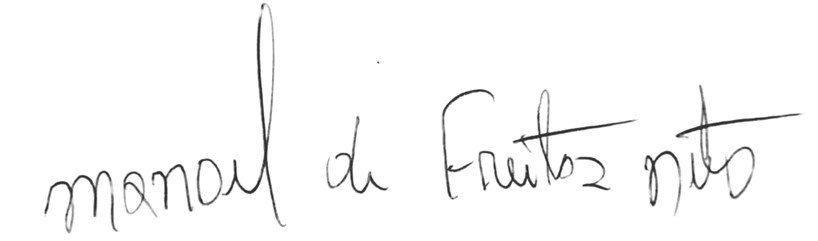
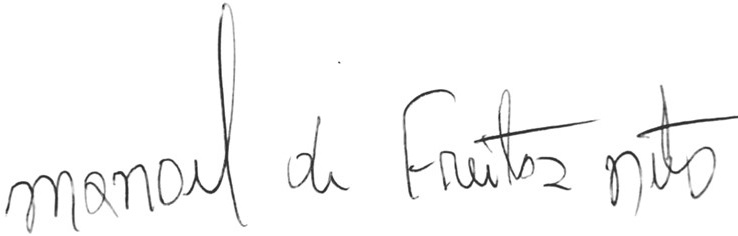
Atualização imagem assinatura neto

Changed region(s): [[0.5298, 0.3559, 1.0, 0.8898], [0.0, 0.0, 0.374, 0.9788], [0.374, 0.5042, 0.4986, 0.8305]]

diff --git a/src/pages/admcontrato/index.tsx b/src/pages/admcontrato/index.tsx
@@ -97,7 +97,8 @@ export default function AdmContrato() {
 
 
     return (
-        <>
+        
+            <div className={`flex flex-col w-full mr-2  justify-center`}>
 
             {loading && <Modal size={'sm'} popup show={loading}>
                 <Modal.Body>
@@ -109,17 +110,12 @@ export default function AdmContrato() {
                 </Modal.Body>
             </Modal>
             }
-            <Head>
-                <title>Administrar Contrato</title>
-
-            </Head>
-            <div className={`flex flex-col w-full mr-2  justify-center`}>
                 {modal.busca && (<ModalBusca visible={modal.busca} setVisible={() => setModal({ busca: false })} />)}
                 {modal.cadastro && (<ModalCadastro onClose={() => setModal({ cadastro: false })} isOpen={modal.cadastro} />)}
 
 
-                <div className="flex  flex-col px-4  ">
-                    <div className="flex  flex-row justify-start gap-2 items-center w-full mt-2 pb-1">
+              
+                    <div className="flex  flex-row justify-start gap-2 items-center w-full mt-2 px-2 pb-1">
                         <Button variant={'outline'} size={'sm'} onClick={() => setModal({ busca: true })} type="button" >
                             <IoMdSearch size={18} />
                             Buscar Cliente
@@ -130,10 +126,10 @@ export default function AdmContrato() {
                         </Button>
 
                     </div>
-                    <div className="flex-col w-full   rounded-lg   border-gray-700">
-                        <Tabs theme={{ base: 'bg-white rounded-lg', tabpanel: 'bg-white rounded-b-lg h-[calc(100vh-165px)] py-1', tablist: { tabitem: { base: "flex items-center justify-center enabled:text-black rounded-t-lg p-4 text-xs font-medium first:ml-0  disabled:cursor-not-allowed disabled:text-gray-400 " } } }} aria-label="Tabs with icons" variant="underline" onActiveTabChange={e => setIndex(e)} >
+                    <div className="flex-col w-full  rounded-lg   border-gray-700">
+                        <Tabs theme={{ base: 'block w-full', tabpanel: 'w-full py-1', tablist: {base:' inline-flex w-full', tabitem: { base: "flex items-center justify-center enabled:text-black rounded-t-lg p-2 text-xs font-medium first:ml-0  disabled:cursor-not-allowed disabled:text-gray-400 " } } }} aria-label="Tabs with icons" variant="underline" onActiveTabChange={e => setIndex(e)} >
 
-                            <Tabs.Item active={indexTab === 0} title="Dados Associado" icon={HiUserCircle}>
+                            <Tabs.Item  active={indexTab === 0} title="Dados Associado" icon={HiUserCircle}>
                                 {indexTab === 0 && <DadosAssociado infoEmpresa={infoEmpresa} dadosassociado={dadosassociado ?? {}} />}
                             </Tabs.Item>
 
@@ -206,15 +202,11 @@ export default function AdmContrato() {
                                 />}
                             </Tabs.Item>
                         </Tabs>
-                        <div className="flex flex-col">
-
-
-
-                        </div>
+                
                     </div>
                 </div>
-            </div>
-        </>
+         
+      
     )
 }
 

diff --git a/src/components/admContrato/dadosAssociado/screen.tsx b/src/components/admContrato/dadosAssociado/screen.tsx
@@ -188,9 +188,9 @@ export function DadosAssociado({ dadosassociado, infoEmpresa }: DataProps) {
 }*/
 
     return (
-        <div className={`flex flex-col h-[calc(100vh-190px)]  text-xs p-4  rounded-b-lg w-full `}>
+        <div className={`flex flex-col w-full  text-xs p-4 h-screen rounded-b-lg `}>
 
-            <div className="inline-flex w-full justify-between  gap-3 mb-3 pl-2 text-sm font-semibold tracking-tight text-black">
+            <div className="inline-flex w-full justify-between  gap-3 mb-3 pl-2 text-sm font-semibold  text-black">
                 <div className="inline-flex gap-3 items-center ">
                     {dadosassociado?.contrato?.id_contrato}-{dadosassociado?.nome}
                     <span>CATEGORIA:
@@ -210,11 +210,11 @@ export function DadosAssociado({ dadosassociado, infoEmpresa }: DataProps) {
 
                 </div>
                 <ButtonGroup outline >
-                    <Button className="text-black  " color={'gray'} size={'xs'} onClick={() => setModal({altPlano:true})}>Alterar Categoria</Button>
-                    <Button className="text-black " disabled={!permissoes.includes('ADM1.1.3')} onClick={() => setModal({inativar:true})} color={'gray'} size={'xs'} >{dadosassociado?.contrato?.situacao === 'ATIVO' ? "Inativar Contrato" : "Ativar Contrato"}</Button>
+                    <Button className="text-black truncate " color={'gray'} size={'xs'} onClick={() => setModal({altPlano:true})}>Alterar Categoria</Button>
+                    <Button className="text-black truncate " disabled={!permissoes.includes('ADM1.1.3')} onClick={() => setModal({inativar:true})} color={'gray'} size={'xs'} >{dadosassociado?.contrato?.situacao === 'ATIVO' ? "Inativar Contrato" : "Ativar Contrato"}</Button>
 
 
-                    <Dropdown label="" renderTrigger={() => <Button theme={{ color: { gray: "border border-gray-200 bg-white text-gray-900  enabled:hover:bg-gray-100 enabled:hover:text-cyan-700" }, pill: { off: 'rounded-r-lg' } }} className="text-black " color={'gray'} size={'xs'} >Imprimir Documentos</Button>} >
+                    <Dropdown label="" renderTrigger={() => <Button theme={{ color: { gray: "border border-gray-200 bg-white text-gray-900  enabled:hover:bg-gray-100 enabled:hover:text-cyan-700" }, pill: { off: 'rounded-r-lg' } }} className="text-black truncate" color={'gray'} size={'xs'} >Imprimir Documentos</Button>} >
                         <Dropdown.Item className="text-xs" onClick={() => {handlePrint('carta'),setModal({...{},impressao:true})}}>
                             Carta
                         </Dropdown.Item>
@@ -246,7 +246,7 @@ export function DadosAssociado({ dadosassociado, infoEmpresa }: DataProps) {
 
 
                     setModal({editar:true})
-                }} className="w-full text-black text-xs cursor-pointer">
+                }} className="flex flex-col w-full text-black text-xs cursor-pointer">
                     <h2 className="text-sm font-semibold mb-4  text-black">Dados Titular </h2>
 
                     <div className="mb-1 inline-flex justify-between  gap-2  tracking-tight  ">

diff --git a/src/Documents/associado/contratoAdesão/DocumentTemplate.tsx b/src/Documents/associado/contratoAdesão/DocumentTemplate.tsx
@@ -114,9 +114,9 @@ class DocumentTemplate extends Component<DadosProps> {
 
         <div style={{ fontSize: '14px' }} className="flex flex-col  justify-center items-center w-full">
         <h1 style={{ fontSize: '14px' }} className=' text-center font-semibold mt-2'>RELAÇÃO DE DEPENDENTES</h1>
-          <table className="block  text-left rtl:text-center ">
-            <thead className="top-0 uppercase  ">
-              <tr>
+          <table style={{borderColor:'black',borderWidth:'1px'}} className="text-left rtl:text-center  ">
+            <thead className="top-0 uppercase ">
+              <tr >
               <th scope="col" className="px-10 py-1 ">
                   
                 </th>
@@ -159,7 +159,7 @@ class DocumentTemplate extends Component<DadosProps> {
 
 
 
-<div className={timesNewRoman.className}>
+<div  className={timesNewRoman.className}>
 {infoEmpresa?.cont_clausuras && parse(SanitizeHtml(infoEmpresa?.cont_clausuras))}
 </div>
 
@@ -179,7 +179,7 @@ class DocumentTemplate extends Component<DadosProps> {
 
             <div className="flex flex-col  w-1/2  justify-center items-center "style={{paddingTop:85,position:'relative'}}>
             <div  style={{position:'absolute', top:5}}>
-            <img className=" object-cover" width={300} alt="imagemAss" src={"/assinatura.jpg"} />
+            <img fetchPriority="high" className=" object-cover" width={300} alt="imagemAss" src={"/assinatura.jpg"} />
             </div>
            
            

diff --git a/src/pages/_app.tsx b/src/pages/_app.tsx
@@ -23,9 +23,11 @@ function isLoginPage(pathname: string) {
 
 function PrivateLayout({ children }: { children: React.ReactNode }) {
   return (
-    <div className='flex flex-col'>
+    <div className="w-full flex flex-col ">
       <Header />
-      <div>{children}</div>
+      
+      {children}
+     
     </div>
   );
 }
@@ -69,9 +71,9 @@ function PrivateRouter({ Component, pageProps }: AppProps) {
   // Renderiza o layout privado apenas para rotas protegidas
   if (!isLoginPage(router.pathname)) {
     return (
-      <PrivateLayout>
+      <PrivateLayout >
         <ModalLoading show={loadingInfo} />
-        <Component {...pageProps} />
+        <Component  {...pageProps} />
       </PrivateLayout>
     );
   }
@@ -82,7 +84,7 @@ function PrivateRouter({ Component, pageProps }: AppProps) {
 export default function App({ Component, pageProps,router }: AppProps) {
   return (
     <StrictMode >
-      <AuthProvider>
+      <AuthProvider >
         
         <PrivateRouter router={router} Component={Component} pageProps={pageProps} />
         <ToastContainer

diff --git a/src/components/header/header.tsx b/src/components/header/header.tsx
@@ -38,7 +38,7 @@ Header() {
 
 
     return(
-        <header className={` bg-white border-b px-2 py-1 border-gray-200 inline-flex justify-between items-center `}>
+        <div className={`flex flex-row w-full bg-white border-b px-2 py-1 border-gray-200  justify-between items-center `}>
             <div className="inline-flex items-center gap-2">
         <Image width={50} height={50} priority alt="user" src={"/improved_logo.png"} />
             <div className="flex flex-col">
@@ -145,16 +145,6 @@ Header() {
         </MenubarContent>
       </MenubarMenu>
        
-      
-
-
- 
-
-
-
-
-
-
     </Menubar>
 
            
@@ -179,7 +169,7 @@ Header() {
     </div>
   { open && <ModalAtivosInativos usuario={usuario?.nome} logo={infoEmpresa?.logoUrl} open={open} onClose={()=>setOpen(false)} id_empresa={selectEmp}/> }
 
-        </header>
+        </div>
     )
 }
 

diff --git a/src/styles/globals.css b/src/styles/globals.css
@@ -11,6 +11,7 @@
 
 
 body{
+  width: 100%;
   /*background-color: #041439;*/
      /*font-family: "Source Sans 3", sans-serif;*/
     font-optical-sizing: auto;

diff --git a/src/components/menu.tsx b/src/components/menu.tsx
@@ -52,12 +52,12 @@ async function contagem() {
 
   return (
  
-    <div className='flex flex-col w-full'>
+   
 <Header/>
 
   
  
 
-</div>
+
   )  
 }
